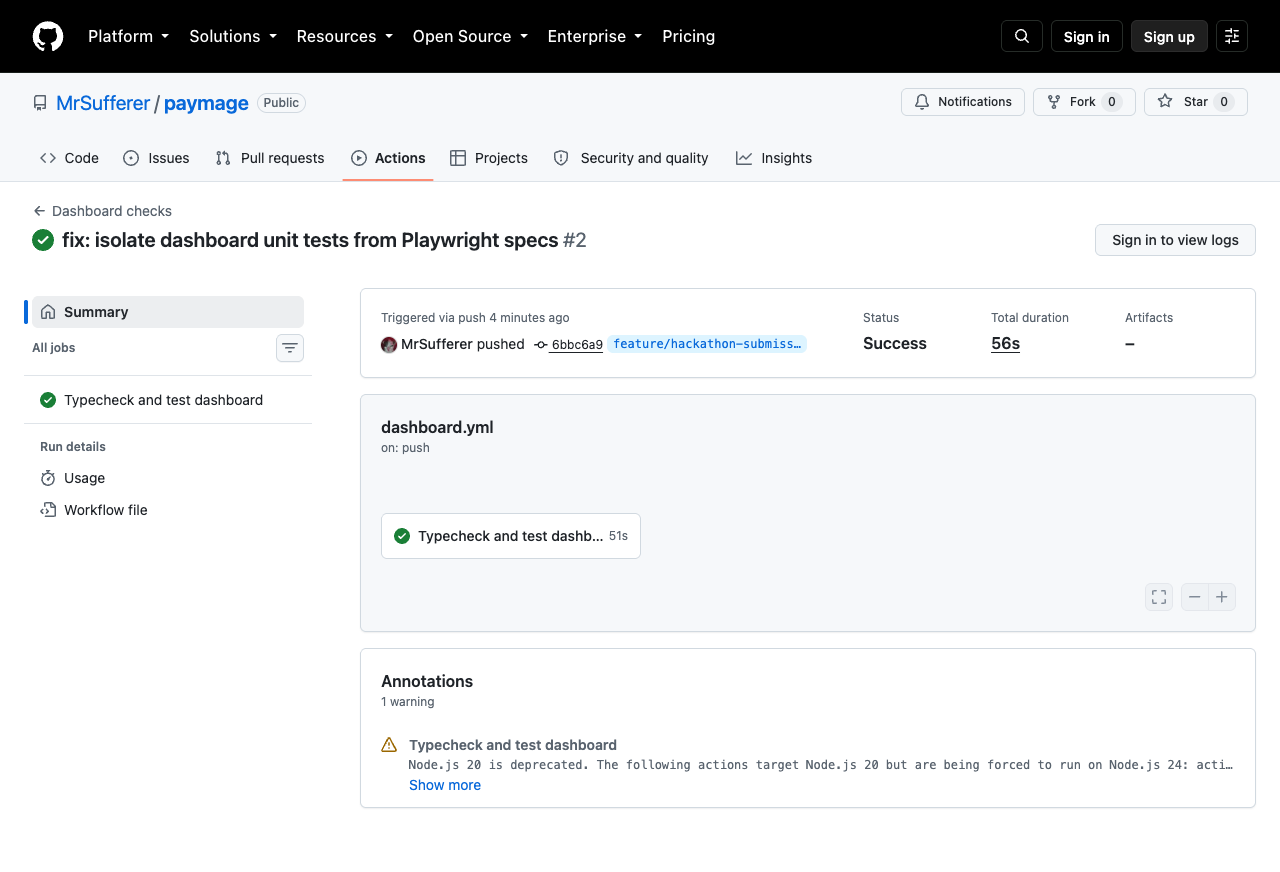
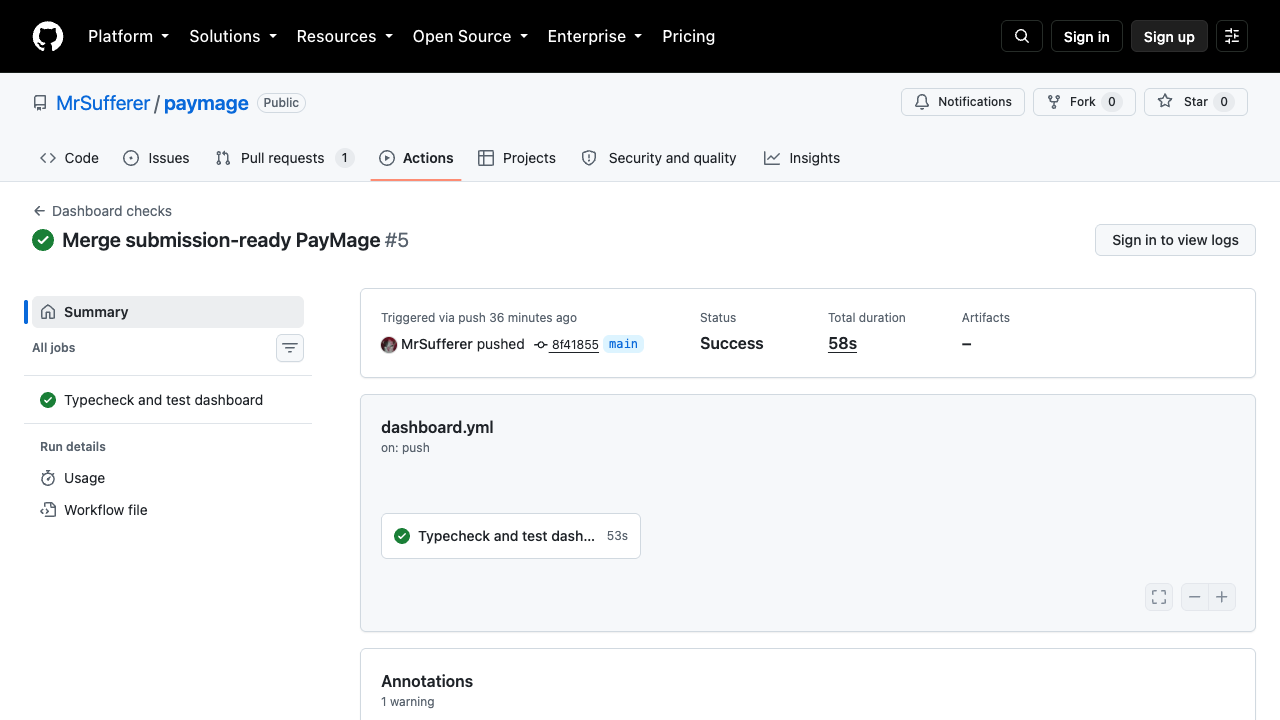
docs: refine submission README and evidence

diff --git a/README.md b/README.md
@@ -1,119 +1,168 @@
 # PayMage
 
-Privacy-first payroll on Stellar Soroban: employers prove a payroll batch is
+Privacy-first payroll on Stellar Soroban. Employers prove a payroll batch is
 valid without exposing individual salaries, then employees withdraw through
 zero-knowledge proofs.
 
-- **Live demo:** [paymage.vercel.app](https://paymage.vercel.app)
-- **Demo video:** [Watch the PayMage walkthrough](https://youtu.be/1mcte2MPRvc)
-- **Public repository:** [github.com/MrSufferer/paymage](https://github.com/MrSufferer/paymage)
-- **Network:** Stellar Testnet
+**Try it:** [Open the live demo](https://paymage.vercel.app) ·
+[Watch the demo video](https://youtu.be/1mcte2MPRvc) ·
+[Browse the repository](https://github.com/MrSufferer/paymage)
 
-## Hackathon requirements
+> PayMage is a Stellar Testnet reference implementation. It is not audited
+> and is not intended for production assets.
 
-1. **Advanced smart contracts** — `contracts/payroll/` implements Groth16
-   verification, budget caps, nullifiers, and storage TTL handling.
-2. **Inter-contract communication** — the payroll contract calls the Circom
-   Groth16 verifier and the Stellar Asset Contract through `TokenClient`.
-3. **Event streaming and real-time updates** — contract events are declared in
-   `contracts/payroll/`; the dashboard polls `getEvents` in
-   [`lib/stellar/events.ts`](zk-payroll-dashboard/lib/stellar/events.ts) via
-   [`usePayrollEvents`](zk-payroll-dashboard/hooks/usePayrollEvents.ts) and
-   renders them in History.
-4. **CI/CD** — GitHub Actions runs Rust checks/builds and the dashboard
-   typecheck/tests in [`.github/workflows/`](.github/workflows/).
-5. **Deployment workflow** — the testnet deployment script and recorded
-   addresses live in [`deployments/scripts/deploy-payroll.sh`](deployments/scripts/deploy-payroll.sh)
-   and [`deployments/testnet/deployments.json`](deployments/testnet/deployments.json).
-6. **Mobile frontend** — responsive Tailwind layouts plus an accessible mobile
-   navigation drawer in [`DashboardLayout.tsx`](zk-payroll-dashboard/components/layout/DashboardLayout.tsx),
-   [`Header.tsx`](zk-payroll-dashboard/components/layout/Header.tsx), and
-   [`Sidebar.tsx`](zk-payroll-dashboard/components/layout/Sidebar.tsx).
-7. **Error and loading states** — [`app/loading.tsx`](zk-payroll-dashboard/app/loading.tsx),
-   [`app/error.tsx`](zk-payroll-dashboard/app/error.tsx), `WalletErrorOverlay`,
-   and the payroll wizard proof states cover asynchronous and failure paths.
-8. **Tests** — Rust payroll tests are in [`contracts/payroll/`](contracts/payroll/);
-   the dashboard has Vitest and Playwright coverage in
-   [`zk-payroll-dashboard/`](zk-payroll-dashboard/).
-9. **Architecture** — the repository separates Circom circuits, Soroban
-   contracts, Rust/WASM proving crates, and the Next.js dashboard.
-10. **Documentation and demo** — lifecycle evidence is under [`docs/ai/`](docs/ai/),
-    the submission narrative is [`docs/dorahack-submission.md`](docs/dorahack-submission.md),
-    and the walkthrough is linked above.
+## Why PayMage exists
+
+Payroll needs a verifiable total without publishing every employee’s salary.
+PayMage keeps the payroll total public while commitments, individual salaries,
+and employee-to-payment links stay private on-chain.
+
+The system supports an employer workflow and an employee workflow:
+
+1. An employer commits employees to a Poseidon2 Merkle tree and publishes its
+   root.
+2. The employer generates a Groth16 batch proof. The proof binds the committed
+   salaries to the tree, checks their range, and proves their sum.
+3. The Payroll contract verifies the proof, checks the budget cap, escrows
+   USDC, and records the payroll period.
+4. An employee generates a withdrawal proof. The contract checks the Merkle
+   membership and nullifier, then releases the employee’s USDC.
+
+## Quick start
+
+Run the dashboard locally with Node.js 20 or later:
+
+```bash
+git clone https://github.com/MrSufferer/paymage.git
+cd paymage/zk-payroll-dashboard
+npm ci
+cp .env.example .env.local
+npm run dev
+```
+
+The example environment targets Stellar Testnet and includes the recorded
+PayMage contract addresses. Set `SESSION_SECRET` to a value with at least 32
+characters before using server-backed authentication.
+
+## Use the dashboard
+
+Open the local dashboard, connect Freighter on Stellar Testnet, and follow the
+payroll flow:
+
+- Add employees and build the commitment tree
+- Review and submit a payroll batch
+- Watch verification and withdrawal events in History
+- Manage encrypted compliance view keys when the workflow requires them
+
+The hosted demo is the best way to review the product flow. The local dashboard
+also includes a mock ZK engine for UI development. A real testnet transaction
+requires a configured prover and wallet.
+
+## Architecture
+
+PayMage separates circuit constraints, Soroban state transitions, proof
+generation, and the operator dashboard:
+
+| Layer | Location | Responsibility |
+| --- | --- | --- |
+| Circuits | `circuits/` | Payroll batch and withdrawal constraints using Circom, Groth16, and Poseidon2 |
+| Contracts | `contracts/payroll/` | Proof verification, budget caps, nullifiers, USDC escrow, TTL, and events |
+| Verifiers | `contracts/circom-groth16-verifier/` | BN254 Groth16 verification on Soroban |
+| Prover | `app/crates/payroll-prover/` | Native and WebAssembly proof generation bindings |
+| Dashboard | `zk-payroll-dashboard/` | Next.js UI, Freighter integration, transaction flow, event polling, and tests |
+| Deployment | `deployments/` | Testnet addresses and the payroll deployment script |
+
+For the detailed circuit and contract design, read
+[`docs/dorahack-submission.md`](docs/dorahack-submission.md).
 
 ## Submission checklist
+
+The following links collect the public evidence for the submission:
 
 - [x] [Public GitHub repository](https://github.com/MrSufferer/paymage)
 - [x] [Live demo](https://paymage.vercel.app)
 - [x] [Demo video](https://youtu.be/1mcte2MPRvc)
-- [x] Testnet contract deployment addresses listed below
-- [x] Contract interaction transaction hashes listed below
-- [x] [Mobile responsive UI screenshot](docs/screenshots/mobile-ui.png)
-- [x] [CI/CD pipeline screenshot](docs/screenshots/ci-pipeline.png)
-- [x] [Test output with 3+ passing tests](docs/screenshots/tests-passing.png)
+- [x] [Testnet contract addresses](#testnet-deployment)
+- [x] [Recorded interaction transactions](#recorded-testnet-interactions)
+- [x] [Mobile dashboard screenshot](docs/screenshots/mobile-ui.png)
+- [x] [Mobile navigation screenshot](docs/screenshots/mobile-nav-open.png)
+- [x] [Dashboard CI screenshot](docs/screenshots/ci-pipeline.png)
+- [x] [Dependency audit screenshot](docs/screenshots/ci-security-audit.png)
+- [x] [Passing test output](docs/screenshots/tests-passing.png)
 - [x] [DoraHack submission details](docs/dorahack-submission.md)
 
-## Architecture
+## Testnet deployment
 
-```text
-circuits/                         Circom payroll and withdrawal circuits
-contracts/payroll/                Soroban payroll contract and tests
-app/crates/payroll-prover/        Native/WASM proving bindings
-app/crates/poseidon-wasm/         Browser Poseidon2 primitives
-zk-payroll-dashboard/             Next.js dashboard, wallet, events, and UI
-deployments/                      Testnet deployment scripts and metadata
-docs/ai/                          Lifecycle requirements, design, and evidence
-```
+PayMage’s recorded deployment targets Stellar Testnet:
 
-The employer commits employees into a Merkle tree, proves the batch sum, and
-escrows USDC. The contract verifies the proof and records an event. An employee
-later proves membership and a nullifier to withdraw without exposing the
-corresponding commitment.
-
-## Testnet contracts and interactions
-
-| Component | Address |
+| Contract | Address |
 | --- | --- |
-| Payroll contract | `CDSODUB6ZYOB5VZ4GV6MD2NAZ3RA3KZ73RVOBNZMFVXOO7CLLYWTUXNF` |
+| Payroll | `CDSODUB6ZYOB5VZ4GV6MD2NAZ3RA3KZ73RVOBNZMFVXOO7CLLYWTUXNF` |
 | Payroll verifier | `CCSE6A4JH4KDWE63XMJ62LZBJTKJY4AEY3Q6FIACTKXZMNAX2NA7HRI6` |
 | Withdraw verifier | `CCARTGQLYGE2TCFFGPNC2B4IXUZJV4Y5QZWNHX4CXEREDLVIB3XYY5DH` |
 | Token SAC | `CDLZFC3SYJYDZT7K67VZ75HPJVIEUVNIXF47ZG2FB2RMQQVU2HHGCYSC` |
 
-Recorded testnet interactions:
+The deployment metadata lives in
+[`deployments/testnet/deployments.json`](deployments/testnet/deployments.json),
+and the deployment command lives in
+[`deployments/scripts/deploy-payroll.sh`](deployments/scripts/deploy-payroll.sh).
 
-- [`run_payroll`](https://stellar.expert/explorer/testnet/tx/a27afe6f0bd9ef54cb3dc81658d3965b8e7d8e9f7b8a21e7146941e0cec60993)
-- [`withdraw`](https://stellar.expert/explorer/testnet/tx/a511f27bc833e32e6ce252d5ac83b7695ca189207114a6698a5737de5ee68ddb)
+## Recorded testnet interactions
+
+These links show the two recorded contract interactions in Stellar Expert:
+
+- [`run_payroll` transaction](https://stellar.expert/explorer/testnet/tx/a27afe6f0bd9ef54cb3dc81658d3965b8e7d8e9f7b8a21e7146941e0cec60993)
+- [`withdraw` transaction](https://stellar.expert/explorer/testnet/tx/a511f27bc833e32e6ce252d5ac83b7695ca189207114a6698a5737de5ee68ddb)
 
 ## Screenshots
 
-- [Mobile UI](docs/screenshots/mobile-ui.png)
-- [Tests passing](docs/screenshots/tests-passing.png)
-- [CI pipeline](docs/screenshots/ci-pipeline.png)
+The screenshots show the current dashboard shell, mobile navigation, local
+tests, and public GitHub Actions runs:
 
-## Development and verification
+| Evidence | Preview |
+| --- | --- |
+| Mobile History at 390 × 844 | [![Mobile dashboard](docs/screenshots/mobile-ui.png)](docs/screenshots/mobile-ui.png) |
+| Mobile drawer with dashboard routes | [![Mobile navigation](docs/screenshots/mobile-nav-open.png)](docs/screenshots/mobile-nav-open.png) |
+| Dashboard checks | [![Dashboard CI](docs/screenshots/ci-pipeline.png)](https://github.com/MrSufferer/paymage/actions/runs/33378719505) |
+| Dependency security audit | [![Security audit](docs/screenshots/ci-security-audit.png)](https://github.com/MrSufferer/paymage/actions/runs/33379942151) |
+| Dashboard tests | [![Tests passing](docs/screenshots/tests-passing.png)](docs/screenshots/tests-passing.png) |
+
+## Testing and CI
+
+Run the dashboard checks from its directory:
 
 ```bash
 cd zk-payroll-dashboard
-npm ci
-npm run dev
 npm run typecheck
 npm test
 ```
 
-Rust payroll checks and dependency lint:
+Run the Rust payroll contract tests and dependency check from the repository
+root:
 
 ```bash
 cargo test -p payroll
 cargo shear
 ```
 
-The testnet deployment script is [`deploy-payroll.sh`](deployments/scripts/deploy-payroll.sh).
-Browser/server-proof demos require `PAYROLL_PROVER_URL` to point at a running
-prover service.
+GitHub Actions runs dashboard typechecks and tests through
+[`dashboard.yml`](.github/workflows/dashboard.yml). Rust builds, contract
+builds, WebAssembly checks, dependency audits, and coverage use the workflows
+in [`.github/workflows/`](.github/workflows/).
 
-## Lifecycle documents
+## Development and deployment
 
-The canonical feature documents are grouped under
+Use `NEXT_PUBLIC_ZK_ENGINE=mock` for dashboard-only work. Use the `server`
+engine with `PAYROLL_PROVER_URL` for the server-backed proving flow. The
+`real` engine requires generated proving artifacts, which are intentionally
+excluded from Git.
+
+Build the Rust workspace with Cargo. Build or deploy the testnet contracts with
+the scripts under [`deployments/scripts/`](deployments/scripts/).
+
+## Lifecycle documentation
+
+The canonical feature records are grouped under
 [`docs/ai/requirements/`](docs/ai/requirements/),
 [`docs/ai/design/`](docs/ai/design/),
 [`docs/ai/planning/`](docs/ai/planning/),
@@ -121,11 +170,24 @@ The canonical feature documents are grouped under
 [`docs/ai/testing/`](docs/ai/testing/), and
 [`docs/ai/review/`](docs/ai/review/).
 
-## Status and caveats
+## Security and limitations
 
-- Testnet reference implementation; not audited and not for production assets.
-- `salaryAmount` is a public circuit input during withdrawal; this is a known
-  privacy trade-off in the current design.
-- `PAYROLL_PROVER_URL` is demo infrastructure, not a production prover
-  hosting guarantee.
+PayMage documents its current trade-offs explicitly:
+
+- `salaryAmount` is a public circuit input during withdrawal so the contract
+  can transfer the requested amount. Full amount privacy remains future work.
+- `PAYROLL_PROVER_URL` is demo infrastructure. Production use needs durable
+  hosting, authentication, and operational controls.
+- The contracts target Stellar Testnet and have not received a security audit.
 - Large proving keys are intentionally gitignored and are not committed.
+
+## Status
+
+PayMage is a working Testnet reference implementation with a deployed payroll
+flow, browser and server proving paths, dashboard tests, and recorded
+`run_payroll` and `withdraw` interactions. Treat the current deployment as a
+reviewable demo, not a production payroll service.
+
+## License
+
+See the repository [LICENSE](LICENSE) file.
